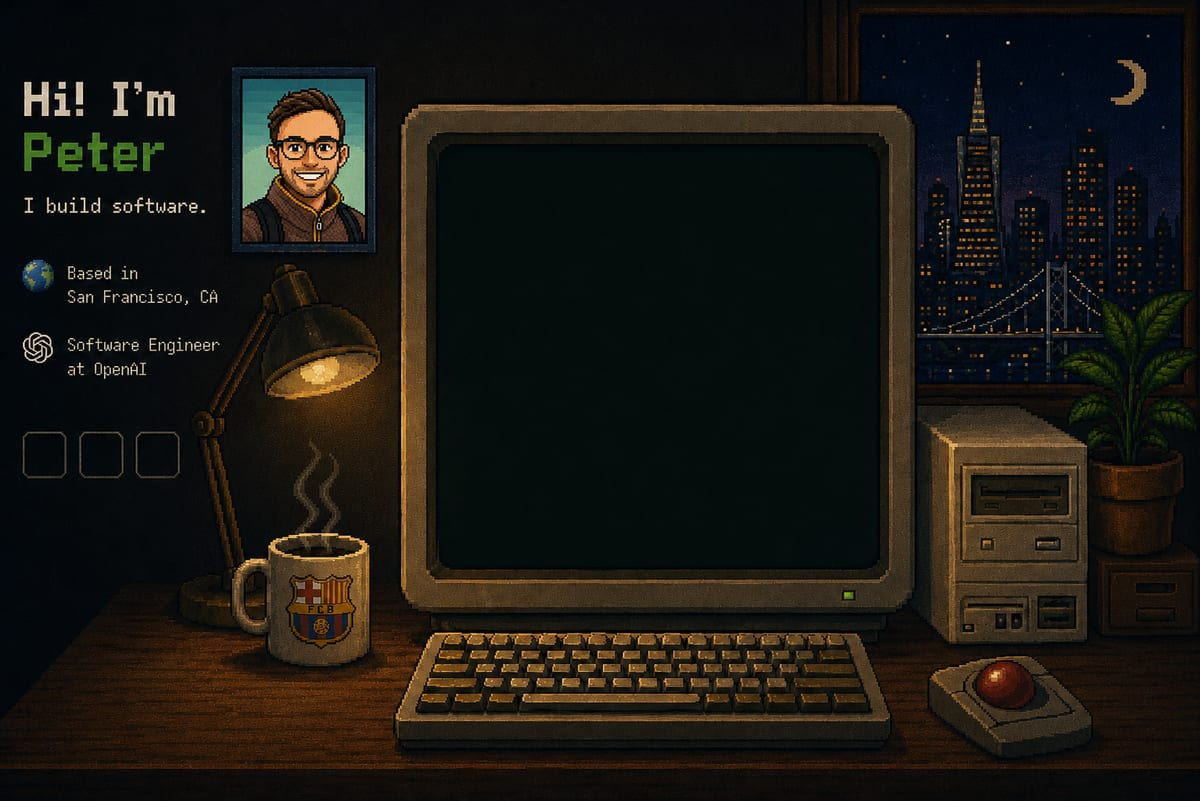
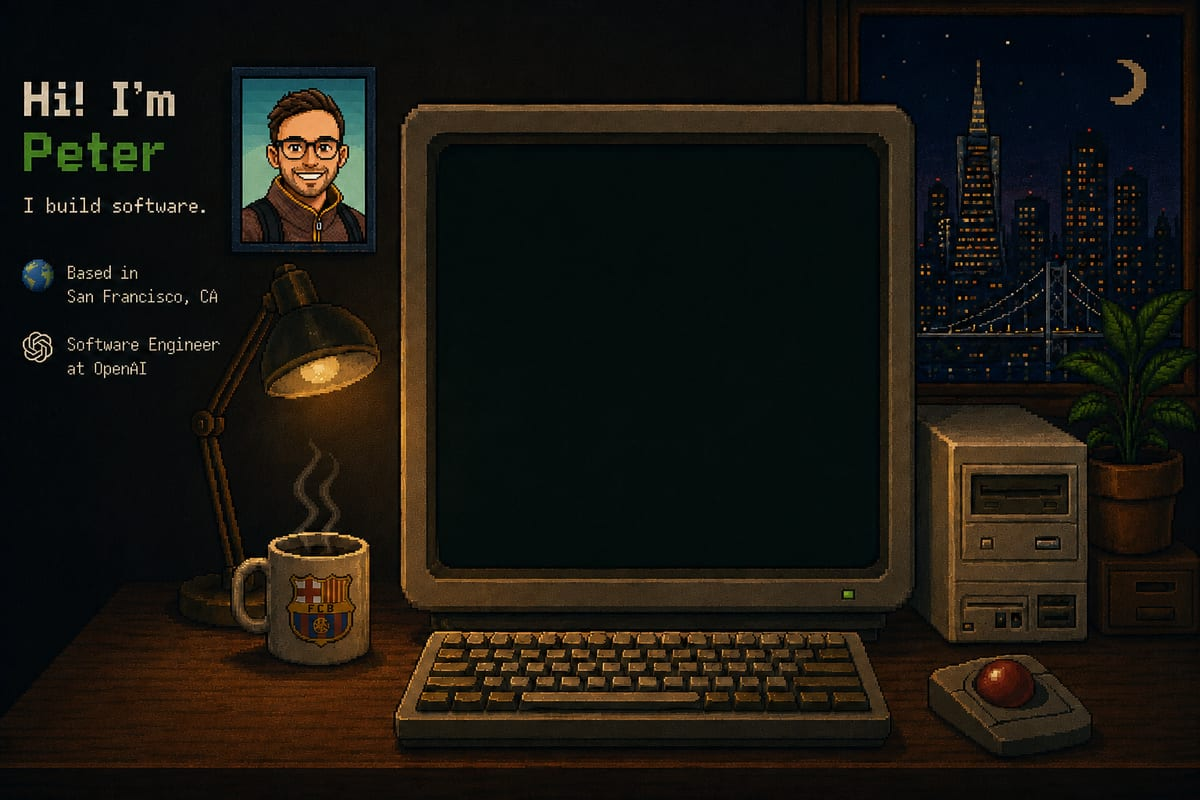
Update desktop studio artwork

diff --git a/app/globals.css b/app/globals.css
@@ -6,7 +6,7 @@
   --cyan: #75cfff;
   --screen: #061411;
   --page-bg: #07100f;
-  --stage-ratio: 1.4990234375;
+  --stage-ratio: 1.5;
 }
 
 * {
@@ -69,7 +69,7 @@ a {
   position: absolute;
   inset: 0 auto auto 0;
   z-index: 1;
-  width: 1535px;
+  width: 1536px;
   height: 1024px;
   background-position: center;
   background-repeat: no-repeat;
@@ -86,7 +86,7 @@ a {
   position: absolute;
   inset: 0;
   z-index: 3;
-  width: 1535px;
+  width: 1536px;
   height: 1024px;
   pointer-events: auto;
   transform: translate(var(--stage-x), var(--stage-y)) scale(var(--stage-scale));
@@ -220,35 +220,44 @@ a {
 }
 
 .logo-hotspot {
-  position: absolute;
-  z-index: 4;
-}
-
-.logo-hotspot {
   display: grid;
   place-items: center;
+  position: absolute;
+  z-index: 4;
+  top: 53.7%;
+  width: 55px;
+  aspect-ratio: 1;
+  border: 3px solid rgba(233, 223, 202, 0.88);
+  background: rgba(4, 8, 8, 0.46);
   color: rgba(244, 237, 221, 0.95);
+  font-size: 28px;
   text-decoration: none;
   text-shadow: 0 2px 0 rgba(0, 0, 0, 0.55);
   transition:
+    background 160ms ease,
+    border-color 160ms ease,
     color 160ms ease,
     transform 160ms ease,
     filter 160ms ease;
+  box-shadow:
+    inset 0 0 0 2px rgba(0, 0, 0, 0.58),
+    0 5px 0 rgba(0, 0, 0, 0.36);
+}
+
+.logo-hotspot svg {
+  display: block;
+  width: 1em;
+  height: 1em;
 }
 
 .logo-hotspot:hover,
 .logo-hotspot:focus-visible {
   color: var(--green-bright);
+  border-color: rgba(52, 244, 110, 0.78);
+  background: rgba(4, 14, 10, 0.62);
   filter: drop-shadow(0 0 0.65rem rgba(52, 244, 110, 0.45));
   outline: none;
   transform: translateY(-2%);
-}
-
-.logo-hotspot {
-  top: 53.7%;
-  width: 55px;
-  aspect-ratio: 1;
-  font-size: 32px;
 }
 
 .github-hotspot {

diff --git a/app/page.jsx b/app/page.jsx
@@ -2,11 +2,22 @@
 
 import Link from "next/link";
 import { useEffect, useMemo, useRef, useState } from "react";
+import { preload } from "react-dom";
 import { FaGithub, FaLinkedinIn } from "react-icons/fa6";
 import { SiX } from "react-icons/si";
 
-const STAGE_WIDTH = 1535;
+const STAGE_WIDTH = 1536;
 const STAGE_HEIGHT = 1024;
+
+function PreloadMobileProjectsBackground() {
+  preload("/mobile-projects-bg-2.webp", {
+    as: "image",
+    type: "image/webp",
+    media: "(max-width: 760px)",
+  });
+
+  return null;
+}
 
 const projects = [
   {
@@ -302,6 +313,8 @@ export default function Home() {
 
   return (
     <main className="studio-shell">
+      <PreloadMobileProjectsBackground />
+
       <section
         ref={stageRef}
         className="scene-stage"

diff --git a/app/layout.jsx b/app/layout.jsx
@@ -22,7 +22,7 @@ export const metadata = {
       {
         url: "/og-image.jpg",
         width: 1200,
-        height: 801,
+        height: 800,
         alt: "Pixel art software studio",
       },
     ],